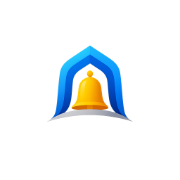
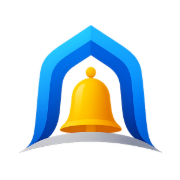
updated some dashboard mobile UI, birthday issue in student drawer and fixed guadian relationship issuei in student record.

diff --git a/admin-ui.css b/admin-ui.css
@@ -3348,13 +3348,75 @@ a.stat, a.dash-stat-link {
   }
 
   .admin-logo {
-    height: 42px;
-    transform: scale(2.1);
+    height: 36px;
+    transform: scale(1.72);  /* ~62px visual — stays within 72px header */
   }
 
   .header-left {
     min-width: unset;
     gap: 8px;
+  }
+
+  /* --- Welcome banner: auto-height and compact on mobile --- */
+  .dash-banner {
+    height: auto;
+    padding: 14px 20px;
+  }
+
+  .dash-banner-inner {
+    flex-wrap: nowrap;
+    align-items: center;
+    gap: 12px;
+  }
+
+  .dash-banner-name {
+    font-size: 1.1rem;
+  }
+
+  .dash-banner-school > div:last-child {
+    font-size: 0.8rem;
+  }
+
+  /* Date string is too long for mobile — hide it */
+  .dash-banner-date {
+    display: none;
+  }
+
+  /* --- School switcher: collapse to icon-only button on mobile --- */
+  .school-switcher-wrap {
+    position: relative;
+    width: 36px;
+    min-width: 36px;
+    height: 36px;
+    padding: 0;
+    gap: 0;
+    border-radius: 8px;
+    overflow: visible;
+  }
+
+  .school-switcher-wrap svg {
+    position: absolute;
+    top: 50%;
+    left: 50%;
+    transform: translate(-50%, -50%);
+    opacity: 0.9;
+    pointer-events: none;
+    z-index: 1;
+    width: 16px;
+    height: 16px;
+  }
+
+  /* Invisible full-size overlay — tap triggers native school picker */
+  #schoolSwitcher {
+    position: absolute;
+    inset: 0;
+    width: 100%;
+    height: 100%;
+    opacity: 0;
+    font-size: 16px; /* prevent iOS auto-zoom on focus */
+    cursor: pointer;
+    z-index: 2;
+    max-width: unset;
   }
 
   .back-to-admin {

diff --git a/app/admin.students.js b/app/admin.students.js
@@ -38,6 +38,7 @@ export async function initStudentsSection(profile) {
         family_id,
         active,
         is_retained,
+        birthdate,
         withdrawn_at,
         withdrawal_reason,
         families!inner(carline_tag_number, family_name),
@@ -341,7 +342,7 @@ async function loadDrawerGuardians(familyId) {
   list.innerHTML = '<span style="font-size:13px;color:var(--text-muted);">Loading…</span>';
   const { data } = await supabase
     .from('guardians')
-    .select('first_name, last_name, phone, relationship')
+    .select('first_name, last_name, phone')
     .eq('family_id', familyId)
     .order('last_name');
   if (!data?.length) {
@@ -351,7 +352,6 @@ async function loadDrawerGuardians(familyId) {
   list.innerHTML = data.map(g => `
     <div class="guardian-chip">
       <span class="guardian-chip-name">${esc(g.first_name)} ${esc(g.last_name)}</span>
-      ${g.relationship ? `<span class="guardian-chip-rel">${esc(g.relationship)}</span>` : ''}
       ${g.phone ? `<a class="guardian-chip-phone" href="tel:${esc(g.phone)}">${esc(g.phone)}</a>` : ''}
     </div>
   `).join('');